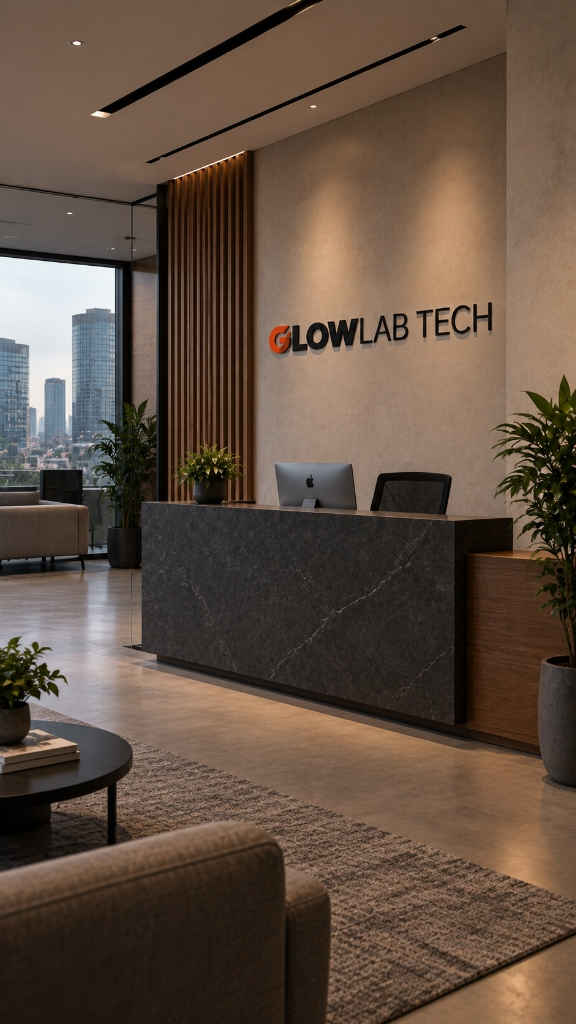
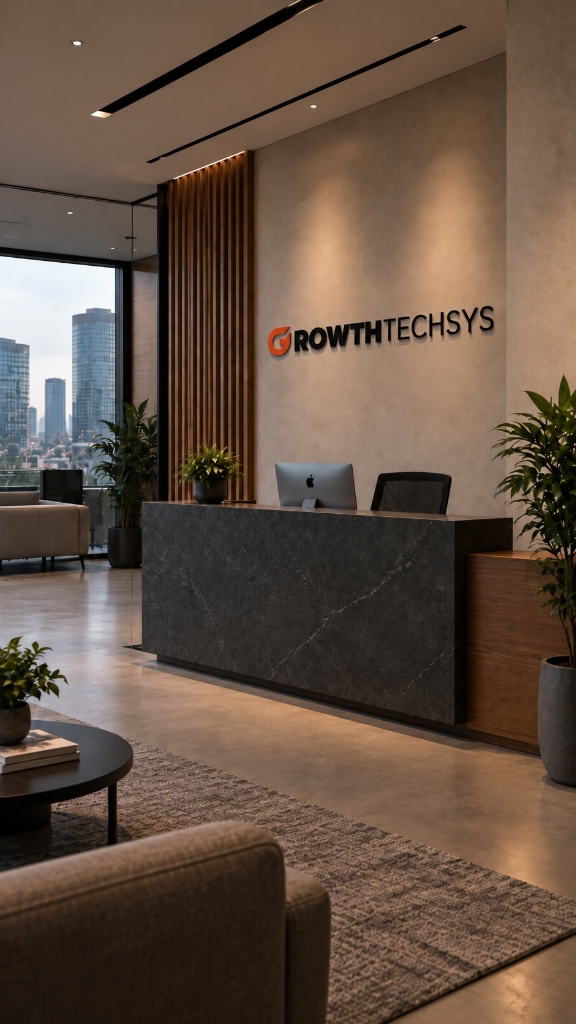
feat(about): update office reception image with branded GrowthTechSys headquarters photo

diff --git a/src/components/AboutPage.tsx b/src/components/AboutPage.tsx
@@ -88,13 +88,13 @@ export default function AboutPage({
               </div>
             </div>
 
-            {/* Right column (~40% width): GrowthTechSys Studio & Workstation */}
+            {/* Right column (~40% width): GrowthTechSys Headquarters & Reception */}
             <div className="col-span-12 lg:col-span-5 flex justify-center lg:justify-end">
-              <div className="relative w-full max-w-sm sm:max-w-md aspect-[9/15] sm:aspect-[9/14] lg:aspect-[9/14] overflow-hidden bg-neutral-200 rounded-2xl border border-black/10 shadow-xl group">
+              <div className="relative w-full max-w-sm sm:max-w-md aspect-[9/16] overflow-hidden bg-neutral-200 rounded-2xl border border-black/10 shadow-xl group">
                 <img
                   src="/about-office.jpg"
-                  alt="GrowthTechSys Headquarters & Studio Workstation"
-                  className="w-full h-full object-cover object-center contrast-[1.02] transition-transform duration-700 ease-out group-hover:scale-105"
+                  alt="GrowthTechSys Headquarters & Reception"
+                  className="w-full h-full object-cover object-center transition-transform duration-700 ease-out group-hover:scale-105"
                 />
                 <div
                   aria-hidden="true"
